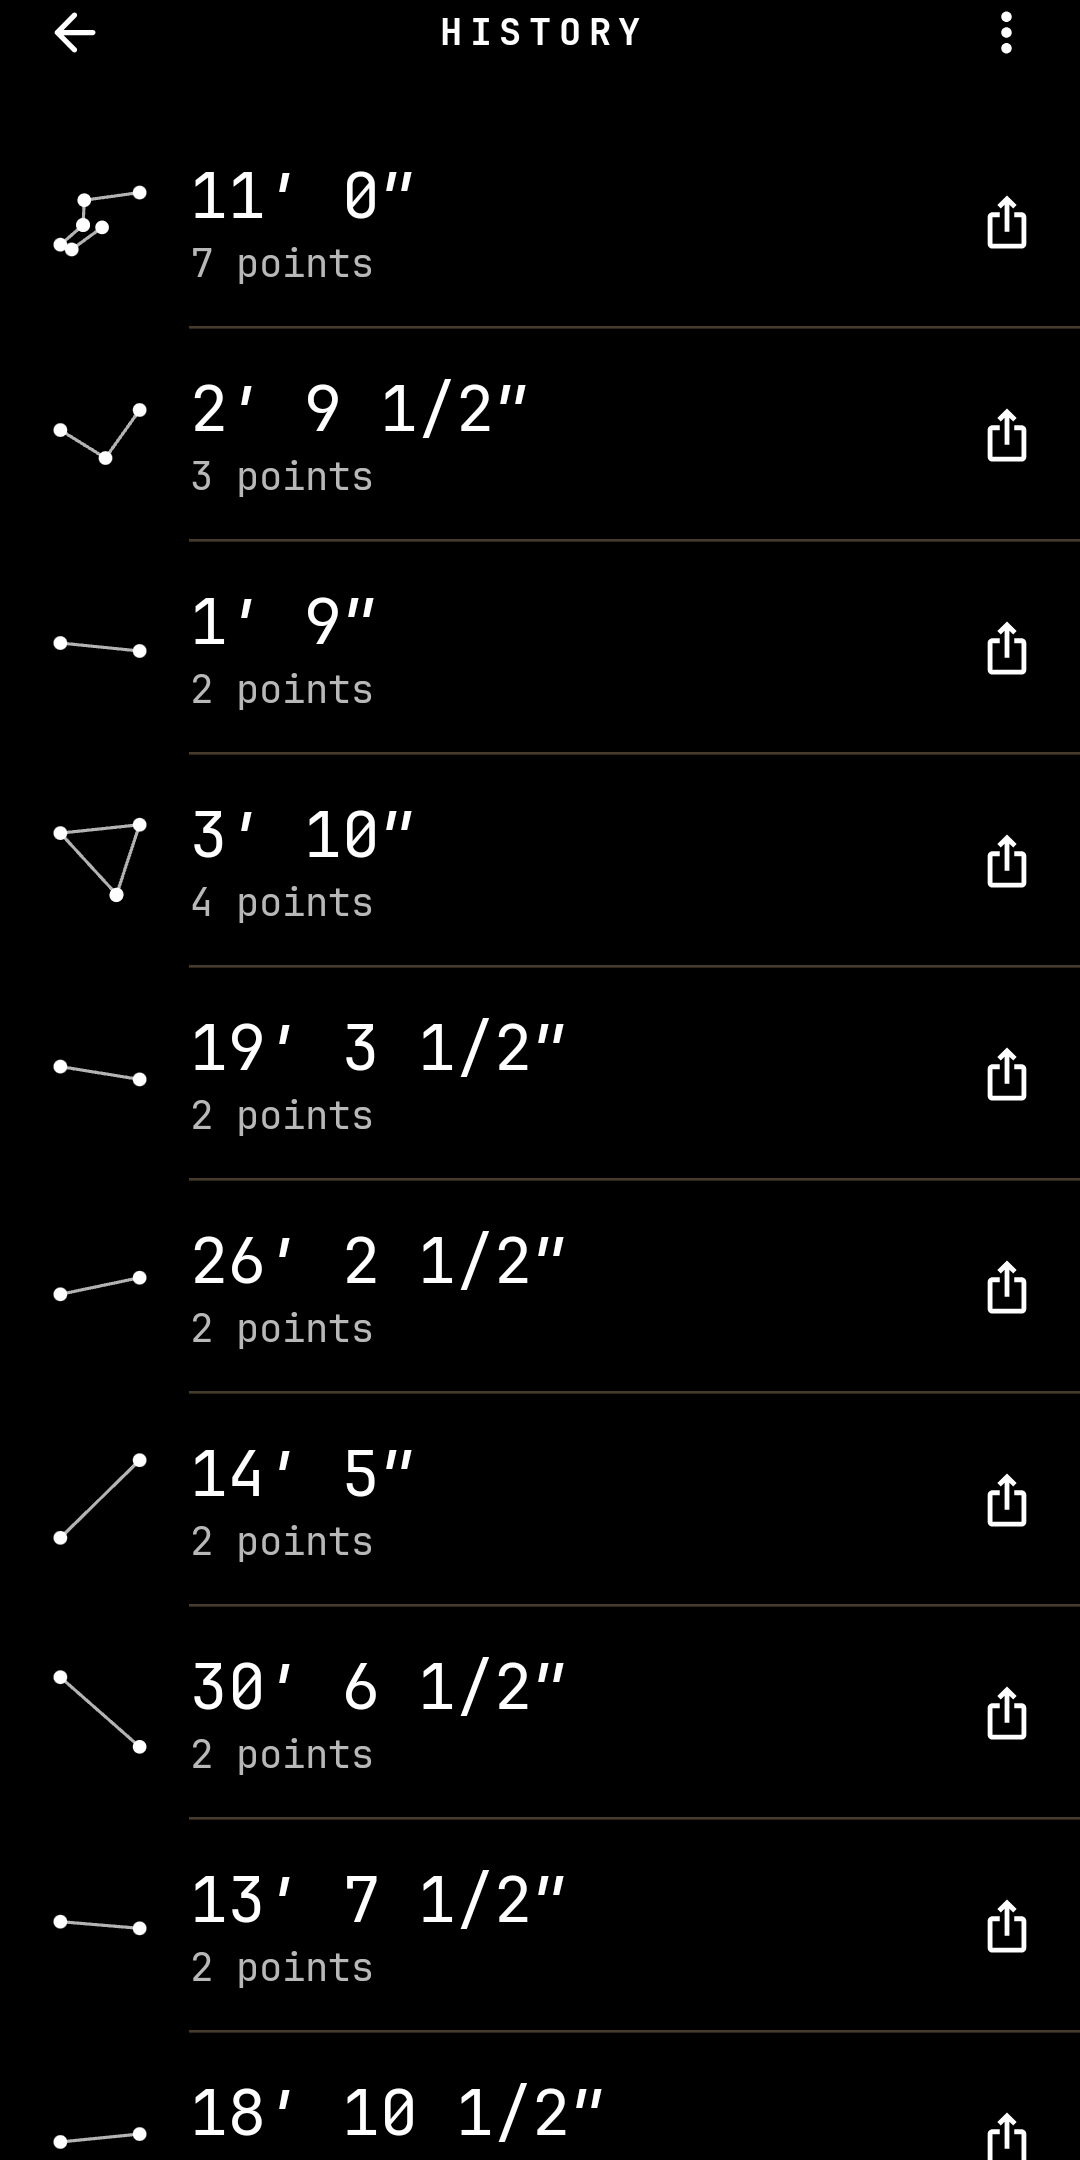
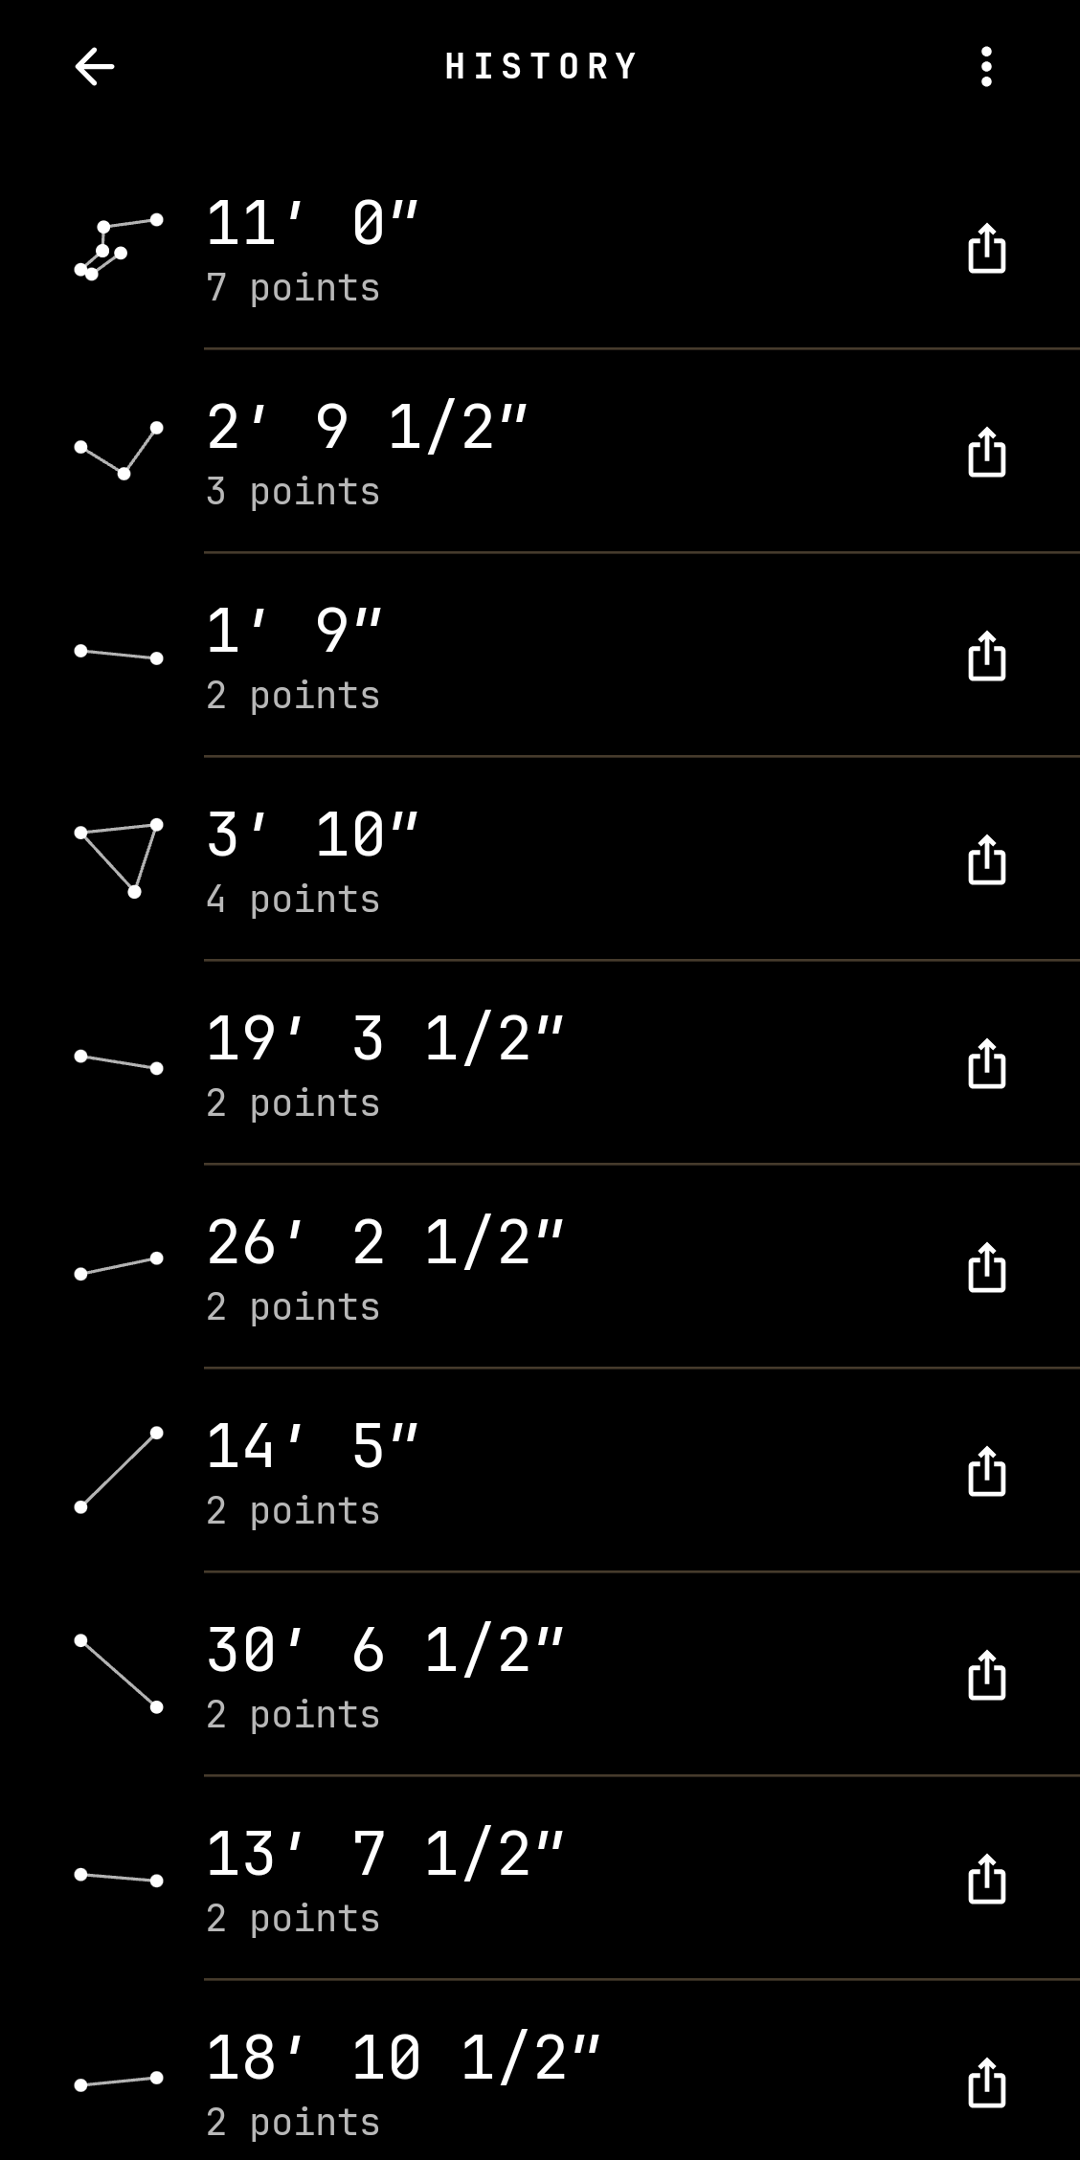
Add the AR measurement screenshot; keep margins when framing
screenshot-1-measure.png: three placed points, labelled spans, the
running total and the live line. Render.java takes an optional
top crop per screenshot, only paints over system-bar strips on flat
backgrounds, and keeps a 48 px margin on cropped bands.

diff --git a/play-store/Render.java b/play-store/Render.java
@@ -92,53 +92,58 @@ public class Render {
   /**
    * Paints over the status-bar strip (top 150 px) and the gesture handle (bottom 60 px) with
    * the colour just inside them, for screens (like a bottom sheet) that bring the bars back.
+   * Only where the row just inside is one flat colour, so a full-screen camera image is left alone.
    */
   static void hideSystemBars(BufferedImage im){
-    int w=im.getWidth(), h=im.getHeight(), top=im.getRGB(w/2,160), bottom=im.getRGB(w/2,h-62);
-    for(int y=0;y<150;y++) for(int x=0;x<w;x++) im.setRGB(x,y,top);
-    for(int y=h-60;y<h;y++) for(int x=0;x<w;x++) im.setRGB(x,y,bottom);
+    int w=im.getWidth(), h=im.getHeight();
+    if(flatRow(im,160)){ int top=im.getRGB(w/2,160); for(int y=0;y<150;y++) for(int x=0;x<w;x++) im.setRGB(x,y,top); }
+    if(flatRow(im,h-62)){ int bottom=im.getRGB(w/2,h-62); for(int y=h-60;y<h;y++) for(int x=0;x<w;x++) im.setRGB(x,y,bottom); }
+  }
+
+  static boolean flatRow(BufferedImage im,int y){
+    int c=im.getRGB(0,y); for(int x=1;x<im.getWidth();x++) if(im.getRGB(x,y)!=c) return false; return true;
   }
 
   /** How many rows from the top (or bottom) are one flat colour. */
   static int flatRows(BufferedImage im, boolean fromTop){
-    int w=im.getWidth(), h=im.getHeight(), n=0;
-    for(int i=0;i<h;i++){ int y=fromTop?i:h-1-i, c=im.getRGB(0,y);
-      for(int x=1;x<w;x++) if(im.getRGB(x,y)!=c) return n; n++; }
+    int h=im.getHeight(), n=0;
+    for(int i=0;i<h;i++){ if(!flatRow(im,fromTop?i:h-1-i)) return n; n++; }
     return n;
   }
 
   /**
-   * Fits a portrait screenshot into 2:1: by cropping flat bands off the top and bottom when
-   * they're deep enough, so it keeps full scale, else by scaling and extending each edge
-   * column outward.
+   * Fits a portrait screenshot into 2:1. First [cropTop] px are cut (for a camera shot, where
+   * nothing is flat), then flat bands off the top and bottom, as much as needed, so it keeps
+   * full scale; whatever's still too tall is scaled down, with each edge column extended
+   * outward to fill the width.
    */
-  static void frame(File in, File out) throws Exception {
+  static final int MARGIN=48;
+
+  static void frame(File in, File out, int cropTop) throws Exception {
     BufferedImage src=ImageIO.read(in); int w=src.getWidth(), h=src.getHeight();
-    if(h>w){
-      hideSystemBars(src);
-      int trim=h-2*w, top=flatRows(src,true), bottom=flatRows(src,false);
-      if(trim>0 && top+bottom>=trim){
-        int cutBottom=Math.min(bottom,trim/2), cutTop=Math.min(top,trim-cutBottom); cutBottom=trim-cutTop;
-        ImageIO.write(src.getSubimage(0,cutTop,w,h-trim),"png",out); return;
-      }
-    }
-    boolean portrait=h>w; int longS=Math.max(w,h), shortS=Math.min(w,h);
-    if(longS<=2*shortS){ ImageIO.write(src,"png",out); return; }
-    int newLong=2*shortS; double k=newLong/(double)longS; int newShort=(int)Math.round(shortS*k);
-    int OW=portrait?shortS:newLong, OH=portrait?newLong:shortS;
-    int sw=portrait?newShort:newLong, sh=portrait?newLong:newShort;
+    if(h<=w){ ImageIO.write(src,"png",out); return; }
+    hideSystemBars(src);
+    src=src.getSubimage(0,cropTop,w,h-cropTop); h-=cropTop;
+    // Each flat band keeps a margin, so nothing ends up flush against the edge.
+    int trim=Math.max(0,h-2*w), top=Math.max(0,flatRows(src,true)-MARGIN), bottom=Math.max(0,flatRows(src,false)-MARGIN);
+    int cutBottom=Math.min(bottom,trim/2), cutTop=Math.min(top,trim-cutBottom); cutBottom=Math.min(bottom,trim-cutTop);
+    src=src.getSubimage(0,cutTop,w,h-cutTop-cutBottom); h=src.getHeight();
+    if(h<=2*w){ ImageIO.write(src,"png",out); return; }
+    int OW=w, OH=2*w, sh=OH, sw=(int)Math.round(w*(OH/(double)h));
     BufferedImage im=new BufferedImage(OW,OH,BufferedImage.TYPE_INT_RGB); Graphics2D g=g(im);
-    int ox=(OW-sw)/2, oy=(OH-sh)/2; g.drawImage(src,ox,oy,sw,sh,null);
-    if(portrait){ for(int y=0;y<OH;y++){ int l=im.getRGB(ox+1,y), r=im.getRGB(ox+sw-2,y);
-        for(int x=0;x<=ox;x++) im.setRGB(x,y,l); for(int x=ox+sw-1;x<OW;x++) im.setRGB(x,y,r); } }
-    else { for(int x=0;x<OW;x++){ int t=im.getRGB(x,oy+1), b=im.getRGB(x,oy+sh-2);
-        for(int y=0;y<=oy;y++) im.setRGB(x,y,t); for(int y=oy+sh-1;y<OH;y++) im.setRGB(x,y,b); } }
+    int ox=(OW-sw)/2; g.drawImage(src,ox,0,sw,sh,null);
+    for(int y=0;y<OH;y++){ int l=im.getRGB(ox+1,y), r=im.getRGB(ox+sw-2,y);
+      for(int x=0;x<=ox;x++) im.setRGB(x,y,l); for(int x=ox+sw-1;x<OW;x++) im.setRGB(x,y,r); }
     ImageIO.write(im,"png",out);
   }
 
+  /** Args: out-dir, then pairs of in.png and out.png; "out.png:N" first crops N px off the top. */
   public static void main(String[] a) throws Exception {
     File dir=new File(a[0]); dir.mkdirs();
     icon(new File(dir,"icon-512.png")); feature(new File(dir,"feature-graphic-1024x500.png"));
-    for(int i=1;i<a.length;i+=2) frame(new File(a[i]),new File(dir,a[i+1]));
+    for(int i=1;i<a.length;i+=2){
+      String[] o=a[i+1].split(":");
+      frame(new File(a[i]),new File(dir,o[0]),o.length>1?Integer.parseInt(o[1]):0);
+    }
   }
 }

diff --git a/play-store/listing.md b/play-store/listing.md
@@ -62,9 +62,9 @@ Showdist needs a phone that supports Google Play Services for AR (ARCore). AR me
 |---|---|---|
 | App icon | 512 × 512 PNG, 32-bit, ≤ 1 MB | `graphics/icon-512.png`: the adaptive icon (black background, sandstone dimension line, white end points) |
 | Feature graphic | 1024 × 500 JPG or 24-bit PNG, no transparency | `graphics/feature-graphic-1024x500.png`: the main menu's orbital selector (sandstone sun with SHOWDIST, orbit, the three tool moons) and the tagline |
-| Phone screenshots | 2–8, each side 320–3840 px, **long side ≤ 2 × short side** | `graphics/screenshot-*.png`: captured on the Pixel (1080 × 2424, 2.24:1), fitted to 1080 × 2160: system-bar strips painted over, then flat top/bottom bands cropped (full scale), or, where the bands aren't deep enough (About), scaled with the edge colours extended to fill the sides. **Still missing: the AR measurement shot (1).** |
+| Phone screenshots | 2–8, each side 320–3840 px, **long side ≤ 2 × short side** | `graphics/screenshot-*.png`: captured on the Pixel (1080 × 2424, 2.24:1), fitted to 1080 × 2160: system-bar strips painted over where they sit on a flat background, flat top/bottom bands cropped (keeping a 48 px margin), and any remaining height scaled with the edge colours extended to fill the sides. The AR shot first has 170 px of camera image cropped off the top (`screenshot-1-measure.png:170`). |
 
-The graphics are rendered by `Render.java` (run with `java Render.java <out-dir> [in.png out.png]…`), so they can be regenerated after a palette change.
+The graphics are rendered by `Render.java` (run with `java Render.java <out-dir> [in.png out.png[:crop-top]]…`), so they can be regenerated after a palette change.
 
 Screenshot order for the listing (numbers match the file names):
 1. A measurement in progress: several placed points, segment labels, running total.
